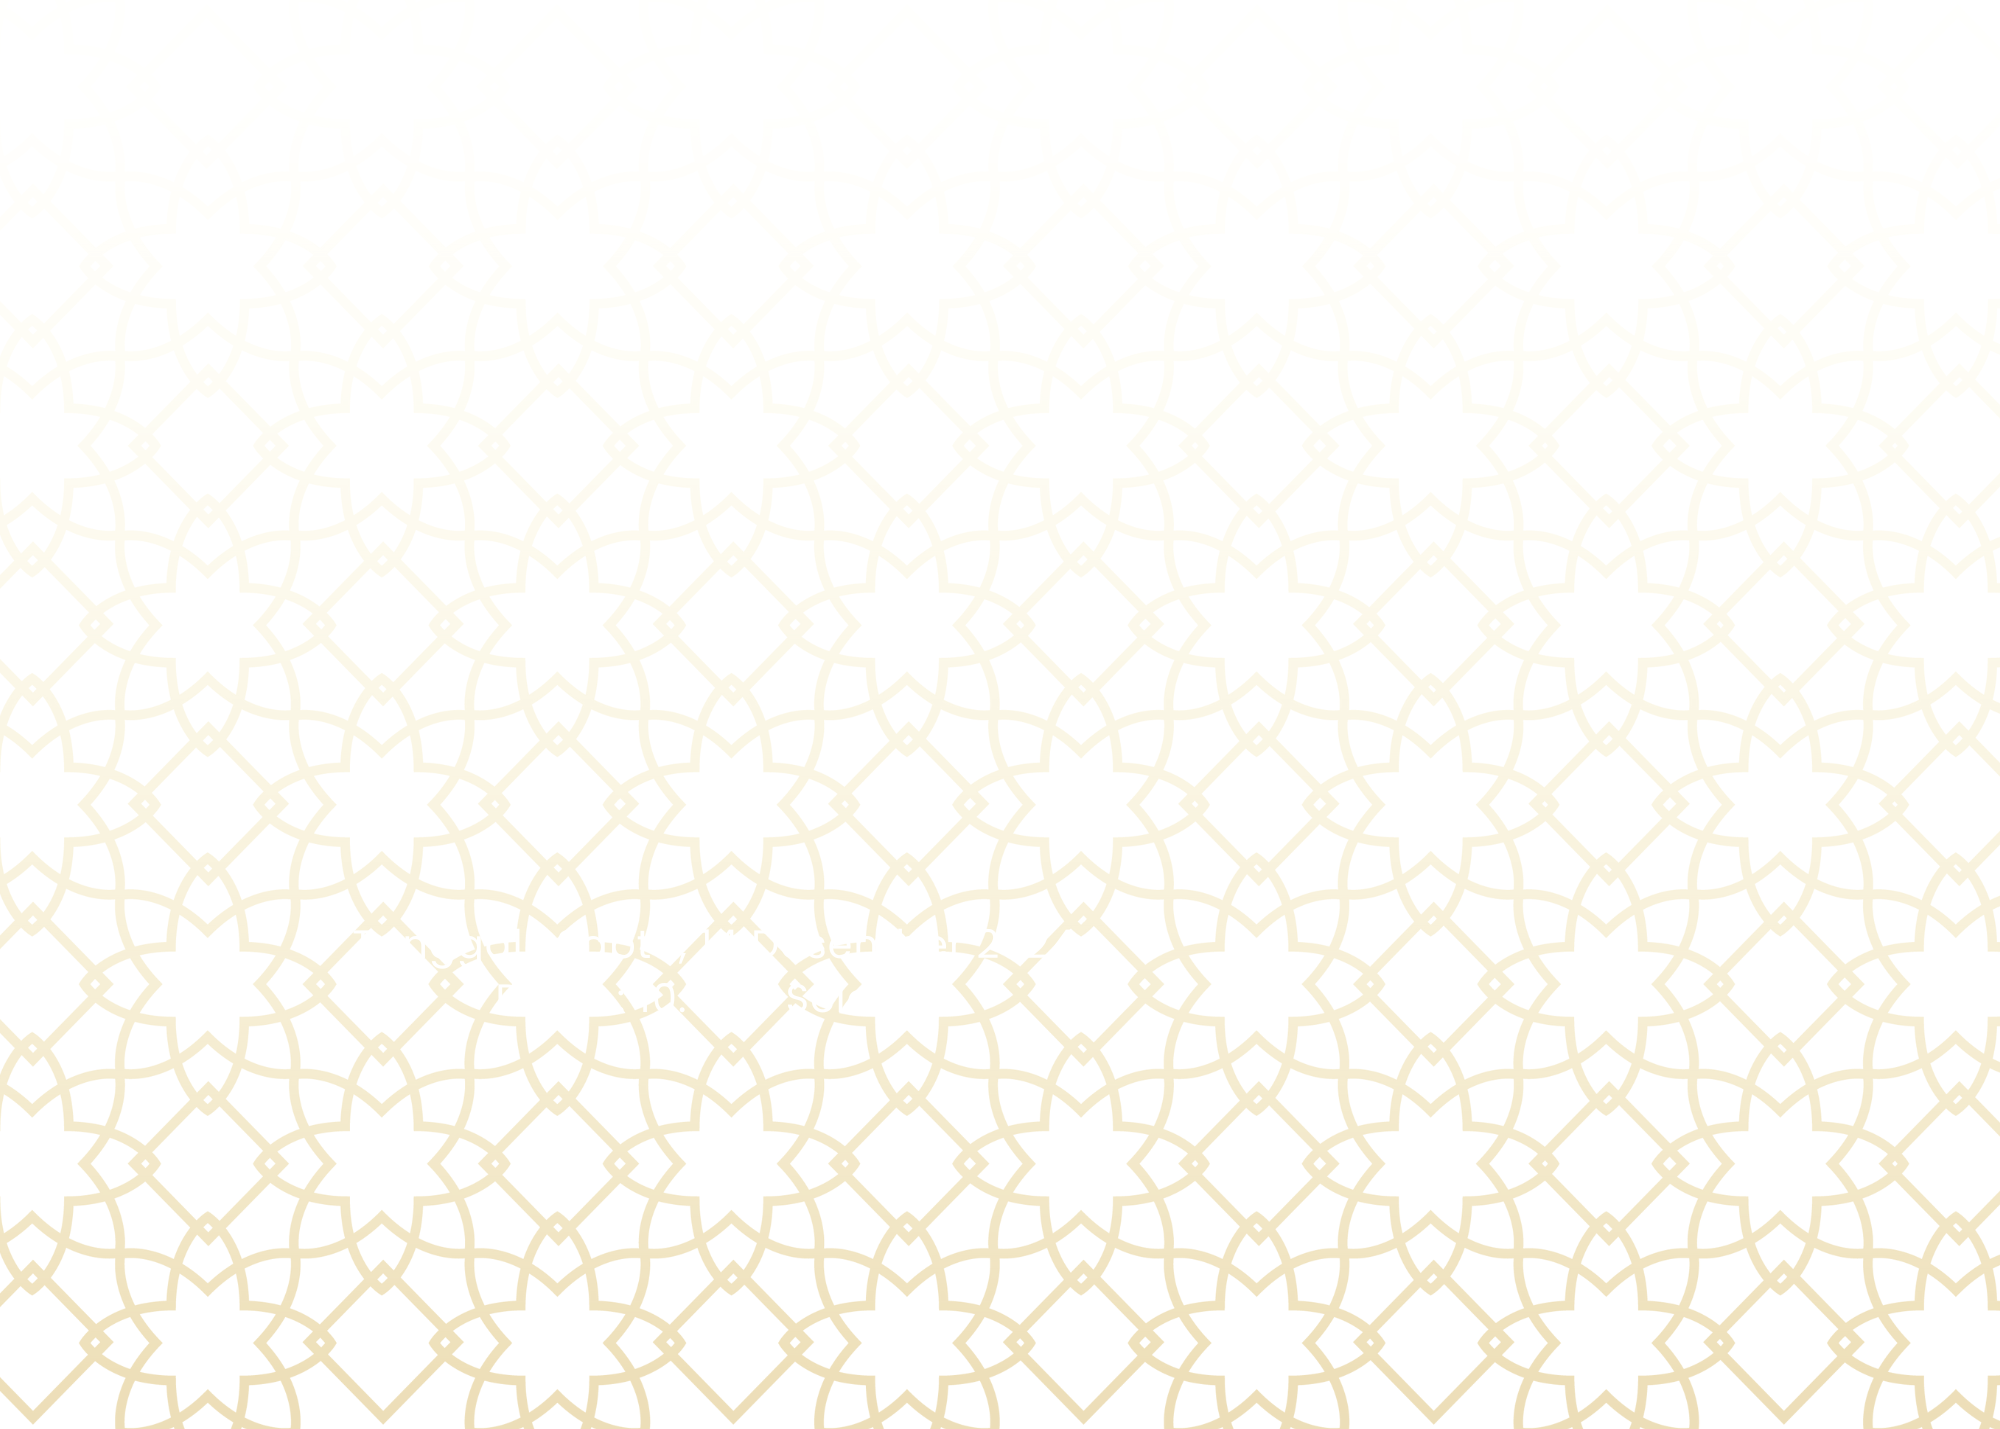
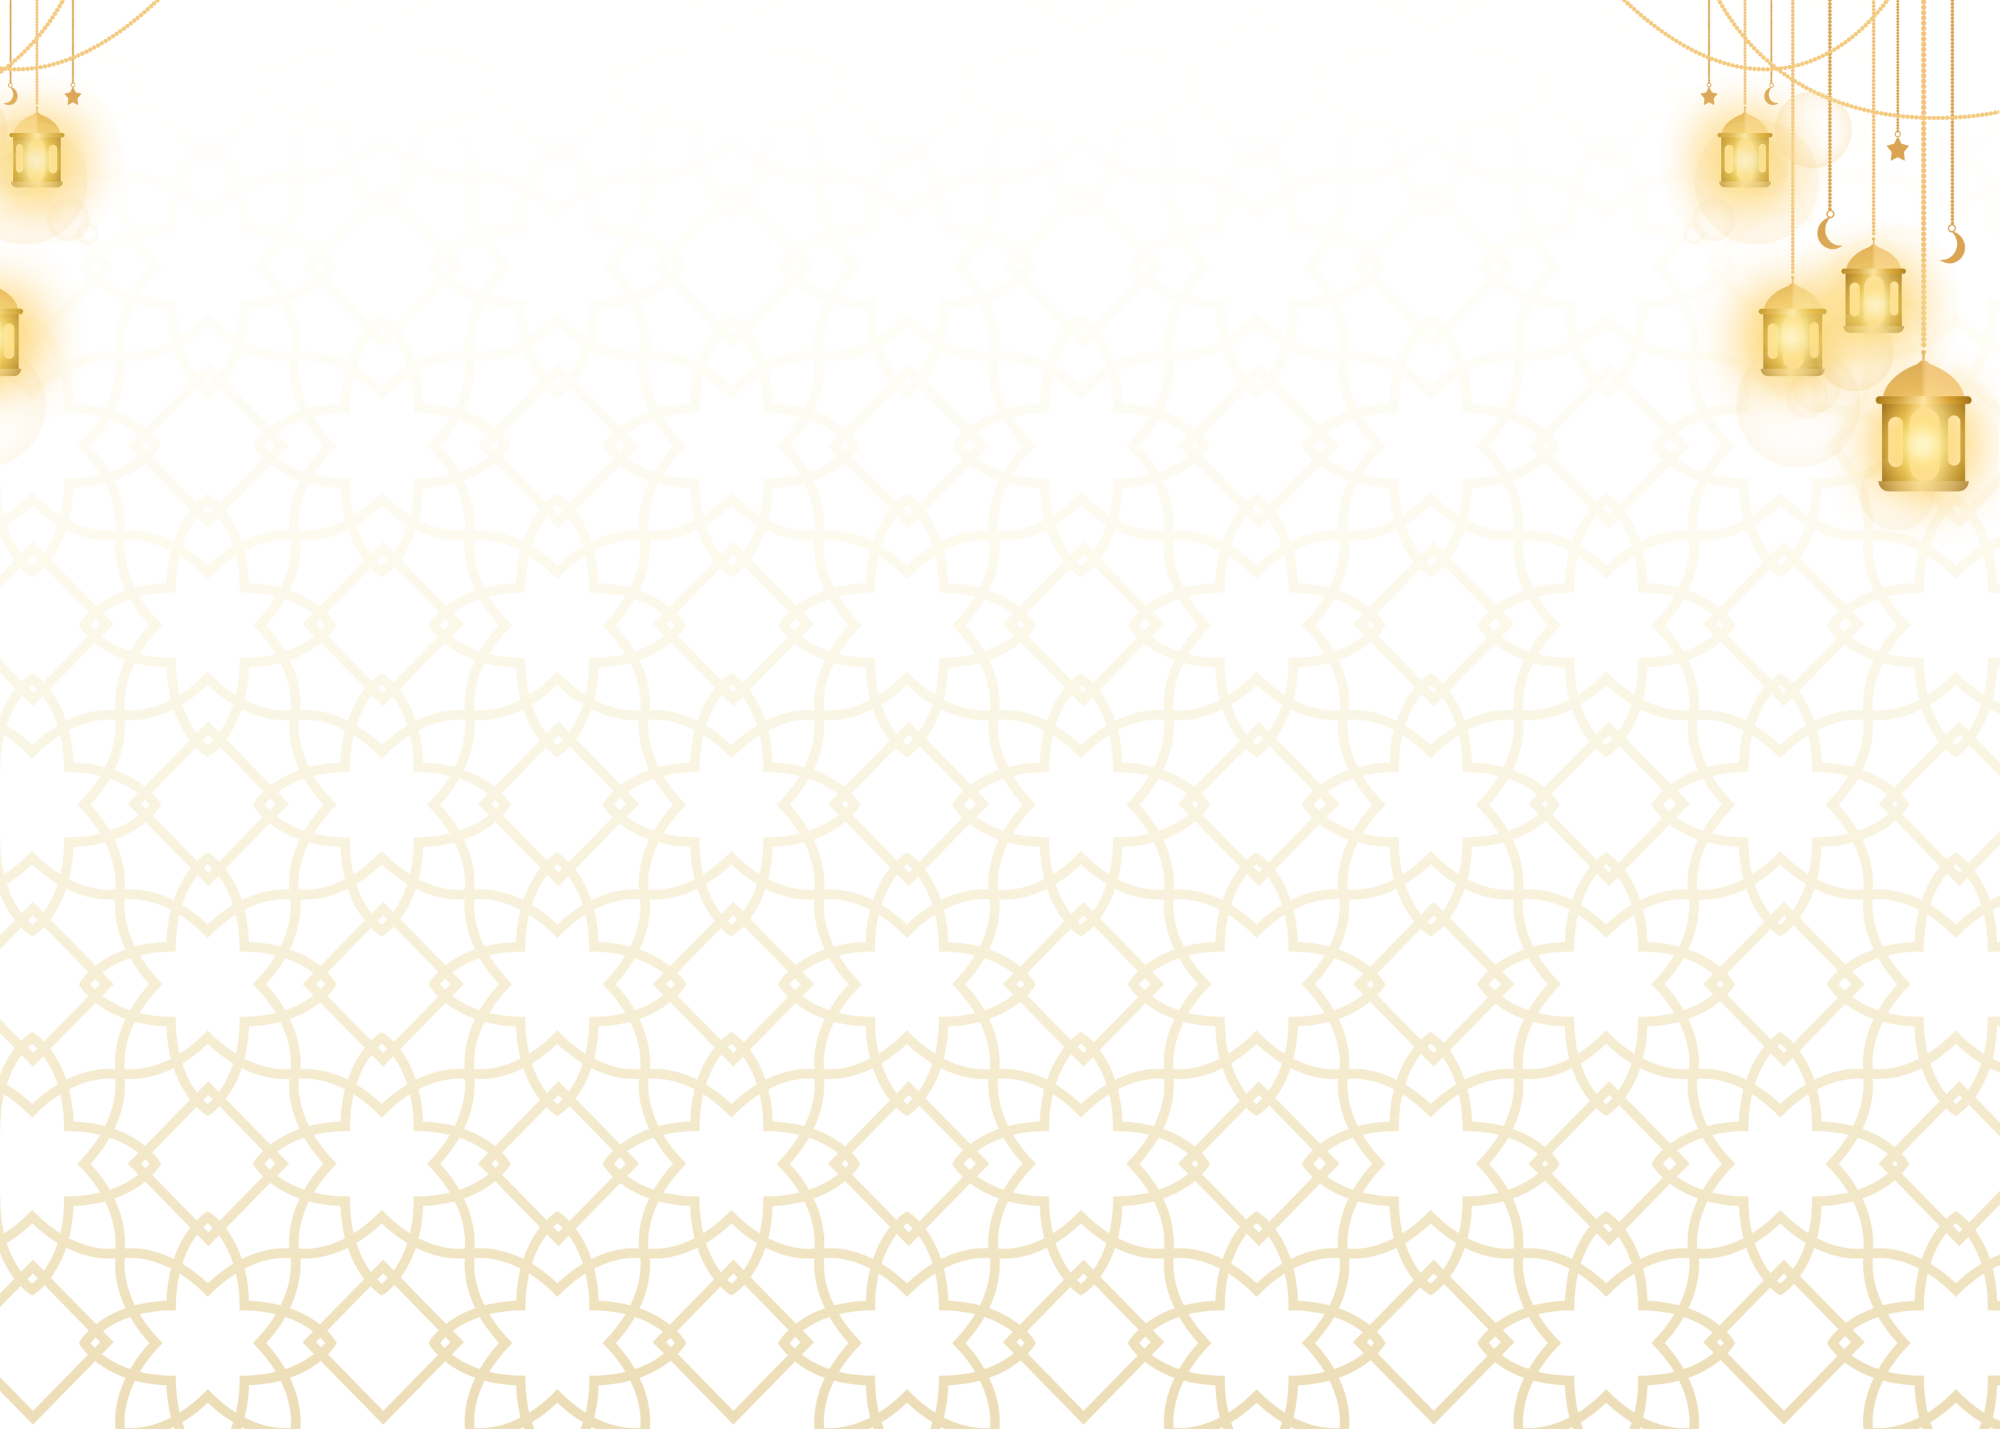
fix

Changed region(s): [[0.837, 0.0, 1.0, 0.3695], [0.0, 0.0, 0.062, 0.3079]]

diff --git a/css/style.css b/css/style.css
@@ -6,7 +6,7 @@
   width: 100%;
   margin: 0;
   font-family: 'Great Vibes', cursive;
-  background-image: url("../img/background.png");
+  background-image: url("../img/mainBg.png");
   z-index: 999999;
   position: fixed;
   top: 0;
@@ -54,6 +54,39 @@
 .button i {
   margin-right: 10px;
 }
+
+
+/* Media Queries untuk Responsivitas */
+@media (max-width: 768px) {
+  .title {
+    font-size: 2em;
+  }
+
+  .names {
+    font-size: 1.5em;
+  }
+
+  .button {
+    font-size: 0.9em;
+    padding: 8px 20px;
+  }
+}
+
+@media (max-width: 480px) {
+  .title {
+    font-size: 1.8em;
+  }
+
+  .names {
+    font-size: 1.3em;
+  }
+
+  .button {
+    font-size: 0.8em;
+    padding: 8px 15px;
+  }
+}
+
 
 
 body {

diff --git a/index.html b/index.html
@@ -296,6 +296,7 @@
     invitationContainer.style.display = 'block';
   });
 
+
 const urlParams = new URLSearchParams(window.location.search);
 const recipientName = urlParams.get('to');
 
